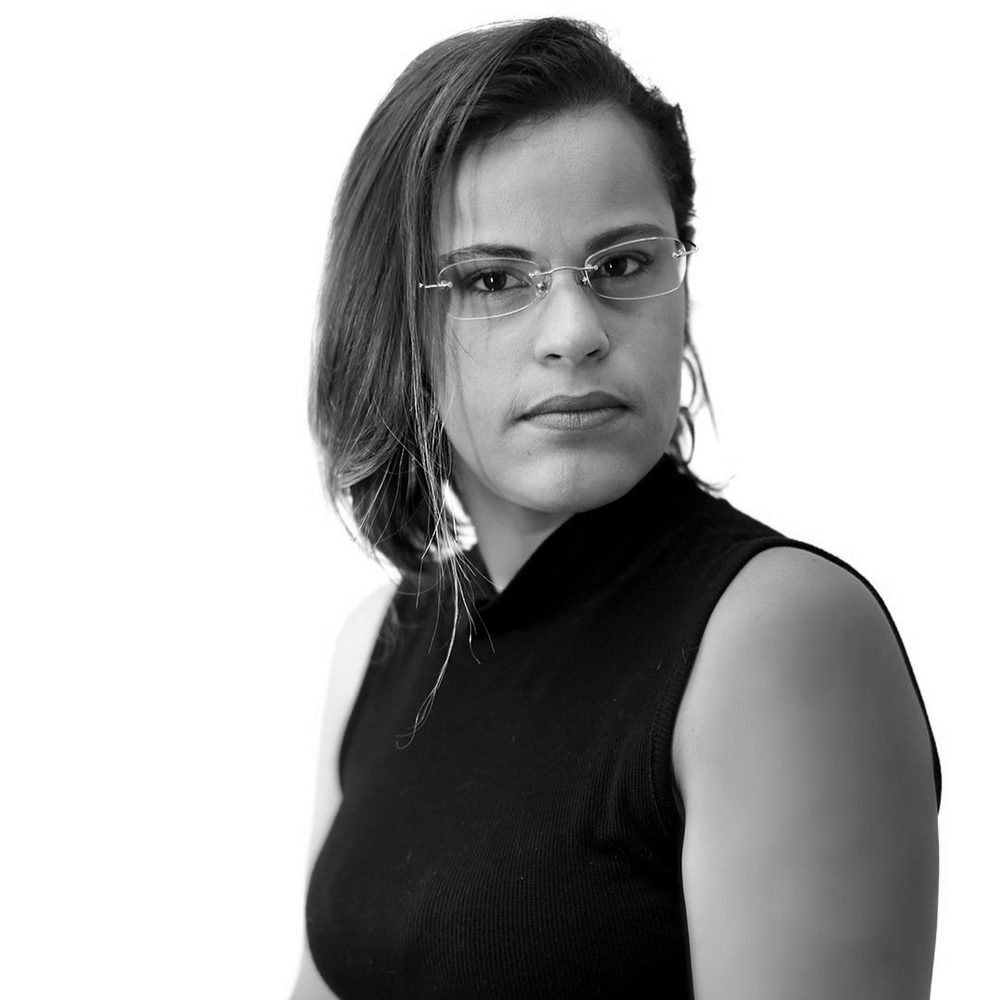
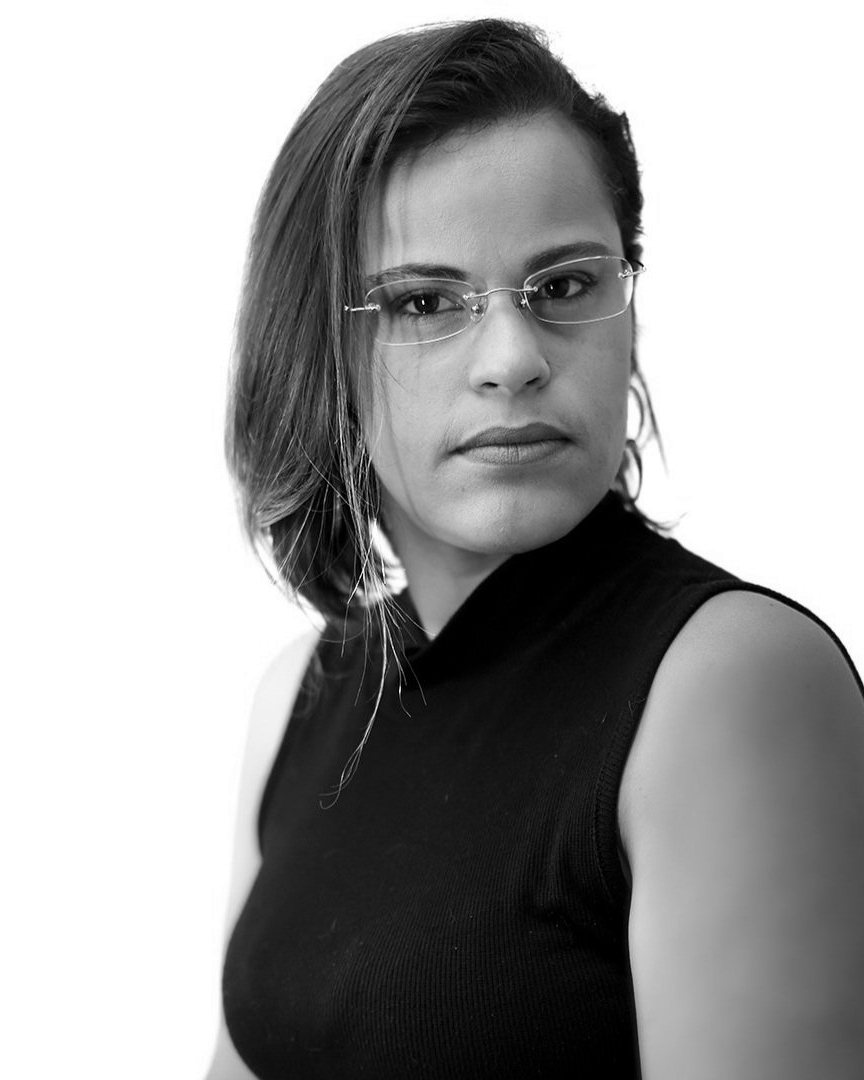
Nova foto do Germano e inclusão de Arábia Saudita e Índia
- retrato novo entra pela pasta 'Fotos Equipe/' (corte 4x5 automático com viés
  para o topo + conversão P&B); gerador/imagens.py passa a preferir essa pasta
- mercados atendidos atualizados em PT e EN: bio da equipe, página Sobre,
  bloco de estrutura, página de contato e meta description
- remove do imagens.py o bloco de marca duplicado (agora só em marca.py)

Changed region(s): [[0.2188, 0.0, 1.0, 1.0], [0.5312, 0.527, 0.5625, 0.558]]

diff --git a/docs/en/about.html b/docs/en/about.html
@@ -4,13 +4,13 @@
 <meta charset="utf-8">
 <meta name="viewport" content="width=device-width, initial-scale=1">
 <title>About Vertigo — Vertigo Color</title>
-<meta name="description" content="Today, Vertigo stands as one of the most sought-after color grading studios in Brazil — with a global focus. Operating from southern Brazil lets us offer N">
+<meta name="description" content="Today, Vertigo stands as one of the most sought-after color grading studios in Brazil — with a global focus. We serve the United States, Europe, Saudi Arab">
 <link rel="canonical" href="https://vertigocolor.com/en/about.html">
 <link rel="alternate" hreflang="pt-BR" href="https://vertigocolor.com/pt/sobre.html">
 <link rel="alternate" hreflang="en" href="https://vertigocolor.com/en/about.html">
 <link rel="alternate" hreflang="x-default" href="https://vertigocolor.com/">
 <meta property="og:title" content="About Vertigo — Vertigo Color">
-<meta property="og:description" content="Today, Vertigo stands as one of the most sought-after color grading studios in Brazil — with a global focus. Operating from southern Brazil lets us offer N">
+<meta property="og:description" content="Today, Vertigo stands as one of the most sought-after color grading studios in Brazil — with a global focus. We serve the United States, Europe, Saudi Arab">
 <meta property="og:image" content="https://vertigocolor.com/assets/img/equipe/germano-sobre.jpg">
 <meta property="og:type" content="website">
 <meta name="theme-color" content="#000000">
@@ -31,13 +31,13 @@
 <section class="secao" style="padding-top:0"><div class="miolo">
   <h1 class="display reveal" style="margin-bottom:44px">About Vertigo</h1>
   <div class="duas-colunas">
-    <div class="prosa reveal"><p>Vertigo Color was born from a singular obsession with the cinematic image. When I first set out to elevate my own productions, the endless complexities of lighting, sound and camera gear felt overwhelming — but color grading immediately clicked. Encouraged by industry mentors like Filippo Cinotti, who proved that a dedicated career in color was possible, I went all-in and invested everything I had into mastering the craft.</p><p>The turning point came when I joined forces with a business partner who brought over a decade of post-production experience — and the name Vertigo Color with him. By combining obsessive dedication with deeply rooted technical expertise, we built a post-production house entirely around the art and science of the grade.</p><p>Today, Vertigo stands as one of the most sought-after color grading studios in Brazil — with a global focus. Operating from southern Brazil lets us offer North American and European markets a massive advantage: world-class finishing at a highly competitive rate, with zero compromise on rigor.</p></div>
+    <div class="prosa reveal"><p>Vertigo Color was born from a singular obsession with the cinematic image. When I first set out to elevate my own productions, the endless complexities of lighting, sound and camera gear felt overwhelming — but color grading immediately clicked. Encouraged by industry mentors like Filippo Cinotti, who proved that a dedicated career in color was possible, I went all-in and invested everything I had into mastering the craft.</p><p>The turning point came when I joined forces with a business partner who brought over a decade of post-production experience — and the name Vertigo Color with him. By combining obsessive dedication with deeply rooted technical expertise, we built a post-production house entirely around the art and science of the grade.</p><p>Today, Vertigo stands as one of the most sought-after color grading studios in Brazil — with a global focus. We serve the United States, Europe, Saudi Arabia and India to the same standard, and operating from southern Brazil lets us offer those markets a massive advantage: world-class finishing at a highly competitive rate, with zero compromise on rigor.</p></div>
     <figure class="reveal"><img src="../assets/img/equipe/germano-sobre.jpg" alt="Germano Michelon Santos" loading="lazy"></figure>
   </div>
 </div></section>
 <section class="secao" style="padding-top:0"><div class="miolo reveal">
   <p class="rotulo">Infrastructure</p>
-  <p class="prosa" style="margin-top:18px;font-size:clamp(1.15rem,2.2vw,1.7rem);font-weight:600;max-width:900px">Based in São Marcos, southern Brazil, with live remote sessions available worldwide. And when a project calls for presence in Rio de Janeiro, we work through our partnership with O2, using their infrastructure.</p>
+  <p class="prosa" style="margin-top:18px;font-size:clamp(1.15rem,2.2vw,1.7rem);font-weight:600;max-width:900px">Based in São Marcos, southern Brazil, with live remote sessions available worldwide — today we work with clients from Brazil to the United States, Europe, Saudi Arabia and India. And when a project calls for presence in Rio de Janeiro, we work through our partnership with O2, using their infrastructure.</p>
   <p class="mudo" style="margin-top:14px">Av. Venâncio Aires, 907 — São Marcos, RS — Brasil</p>
 </div></section>
 <section class="secao clientes"><div class="miolo reveal">

diff --git a/docs/pt/sobre.html b/docs/pt/sobre.html
@@ -4,13 +4,13 @@
 <meta charset="utf-8">
 <meta name="viewport" content="width=device-width, initial-scale=1">
 <title>Sobre a Vertigo — Vertigo Color</title>
-<meta name="description" content="Hoje, a Vertigo é um dos estúdios de color grading mais procurados do Brasil — com foco global. Operar a partir do Sul do país nos permite oferecer aos mer">
+<meta name="description" content="Hoje, a Vertigo é um dos estúdios de color grading mais procurados do Brasil — com foco global. Atendemos os Estados Unidos, a Europa, a Arábia Saudita e a">
 <link rel="canonical" href="https://vertigocolor.com/pt/sobre.html">
 <link rel="alternate" hreflang="pt-BR" href="https://vertigocolor.com/pt/sobre.html">
 <link rel="alternate" hreflang="en" href="https://vertigocolor.com/en/about.html">
 <link rel="alternate" hreflang="x-default" href="https://vertigocolor.com/">
 <meta property="og:title" content="Sobre a Vertigo — Vertigo Color">
-<meta property="og:description" content="Hoje, a Vertigo é um dos estúdios de color grading mais procurados do Brasil — com foco global. Operar a partir do Sul do país nos permite oferecer aos mer">
+<meta property="og:description" content="Hoje, a Vertigo é um dos estúdios de color grading mais procurados do Brasil — com foco global. Atendemos os Estados Unidos, a Europa, a Arábia Saudita e a">
 <meta property="og:image" content="https://vertigocolor.com/assets/img/equipe/germano-sobre.jpg">
 <meta property="og:type" content="website">
 <meta name="theme-color" content="#000000">
@@ -31,13 +31,13 @@
 <section class="secao" style="padding-top:0"><div class="miolo">
   <h1 class="display reveal" style="margin-bottom:44px">Sobre a Vertigo</h1>
   <div class="duas-colunas">
-    <div class="prosa reveal"><p>A Vertigo Color nasceu de uma obsessão singular pela imagem cinematográfica. Quando comecei a produzir meus próprios vídeos, a complexidade de luz, som e equipamento parecia infinita — mas o color grading fez sentido imediatamente. Incentivado por mentores como Filippo Cinotti, que provaram que uma carreira dedicada à cor era possível, investi tudo o que tinha em dominar o ofício.</p><p>A virada veio ao unir forças com um sócio que trazia mais de uma década de pós-produção — e o nome Vertigo Color junto. Combinando dedicação obsessiva com experiência técnica profunda, construímos uma casa de pós-produção inteiramente em torno da arte e da ciência da cor.</p><p>Hoje, a Vertigo é um dos estúdios de color grading mais procurados do Brasil — com foco global. Operar a partir do Sul do país nos permite oferecer aos mercados norte-americano e europeu uma vantagem enorme: finalização de alto nível a um custo altamente competitivo, sem abrir mão de nenhum rigor.</p></div>
+    <div class="prosa reveal"><p>A Vertigo Color nasceu de uma obsessão singular pela imagem cinematográfica. Quando comecei a produzir meus próprios vídeos, a complexidade de luz, som e equipamento parecia infinita — mas o color grading fez sentido imediatamente. Incentivado por mentores como Filippo Cinotti, que provaram que uma carreira dedicada à cor era possível, investi tudo o que tinha em dominar o ofício.</p><p>A virada veio ao unir forças com um sócio que trazia mais de uma década de pós-produção — e o nome Vertigo Color junto. Combinando dedicação obsessiva com experiência técnica profunda, construímos uma casa de pós-produção inteiramente em torno da arte e da ciência da cor.</p><p>Hoje, a Vertigo é um dos estúdios de color grading mais procurados do Brasil — com foco global. Atendemos os Estados Unidos, a Europa, a Arábia Saudita e a Índia com o mesmo padrão, e operar a partir do Sul do país nos permite oferecer a esses mercados uma vantagem enorme: finalização de alto nível a um custo altamente competitivo, sem abrir mão de nenhum rigor.</p></div>
     <figure class="reveal"><img src="../assets/img/equipe/germano-sobre.jpg" alt="Germano Michelon Santos" loading="lazy"></figure>
   </div>
 </div></section>
 <section class="secao" style="padding-top:0"><div class="miolo reveal">
   <p class="rotulo">Estrutura</p>
-  <p class="prosa" style="margin-top:18px;font-size:clamp(1.15rem,2.2vw,1.7rem);font-weight:600;max-width:900px">Base em São Marcos, no Rio Grande do Sul, com sessões remotas ao vivo para qualquer lugar do mundo. E quando o projeto pede presença no Rio de Janeiro, atendemos pela parceria com a O2, usando a infraestrutura deles.</p>
+  <p class="prosa" style="margin-top:18px;font-size:clamp(1.15rem,2.2vw,1.7rem);font-weight:600;max-width:900px">Base em São Marcos, no Rio Grande do Sul, com sessões remotas ao vivo para qualquer lugar do mundo — hoje atendemos do Brasil aos Estados Unidos, Europa, Arábia Saudita e Índia. E quando o projeto pede presença no Rio de Janeiro, atendemos pela parceria com a O2, usando a infraestrutura deles.</p>
   <p class="mudo" style="margin-top:14px">Av. Venâncio Aires, 907 — São Marcos, RS — Brasil</p>
 </div></section>
 <section class="secao clientes"><div class="miolo reveal">

diff --git a/docs/pt/index.html b/docs/pt/index.html
@@ -4,13 +4,13 @@
 <meta charset="utf-8">
 <meta name="viewport" content="width=device-width, initial-scale=1">
 <title>Vertigo Color — Color grading para cinema, publicidade e música</title>
-<meta name="description" content="Estúdio brasileiro de color grading: filmes, séries, comerciais e videoclipes. Sessões remotas ao vivo para o mundo todo. Nike, Mercedes-Benz, Michelin e Natura já passaram pela nossa cor.">
+<meta name="description" content="Estúdio brasileiro de color grading: filmes, séries, comerciais e videoclipes. Sessões remotas ao vivo para Brasil, Estados Unidos, Europa, Arábia Saudita e Índia. Nike, Mercedes-Benz, Michelin e Natura já passaram pela nossa cor.">
 <link rel="canonical" href="https://vertigocolor.com/pt/index.html">
 <link rel="alternate" hreflang="pt-BR" href="https://vertigocolor.com/pt/index.html">
 <link rel="alternate" hreflang="en" href="https://vertigocolor.com/en/index.html">
 <link rel="alternate" hreflang="x-default" href="https://vertigocolor.com/">
 <meta property="og:title" content="Vertigo Color — Color grading para cinema, publicidade e música">
-<meta property="og:description" content="Estúdio brasileiro de color grading: filmes, séries, comerciais e videoclipes. Sessões remotas ao vivo para o mundo todo. Nike, Mercedes-Benz, Michelin e Natura já passaram pela nossa cor.">
+<meta property="og:description" content="Estúdio brasileiro de color grading: filmes, séries, comerciais e videoclipes. Sessões remotas ao vivo para Brasil, Estados Unidos, Europa, Arábia Saudita e Índia. Nike, Mercedes-Benz, Michelin e Natura já passaram pela nossa cor.">
 <meta property="og:image" content="https://vertigocolor.com/assets/img/herois/xama.jpg">
 <meta property="og:type" content="website">
 <meta name="theme-color" content="#000000">
@@ -103,7 +103,7 @@
 
 <section class="secao" style="padding-top:0"><div class="miolo reveal">
   <p class="rotulo">Estrutura</p>
-  <p class="prosa" style="margin-top:18px;font-size:clamp(1.15rem,2.2vw,1.7rem);font-weight:600;max-width:900px">Base em São Marcos, no Rio Grande do Sul, com sessões remotas ao vivo para qualquer lugar do mundo. E quando o projeto pede presença no Rio de Janeiro, atendemos pela parceria com a O2, usando a infraestrutura deles.</p>
+  <p class="prosa" style="margin-top:18px;font-size:clamp(1.15rem,2.2vw,1.7rem);font-weight:600;max-width:900px">Base em São Marcos, no Rio Grande do Sul, com sessões remotas ao vivo para qualquer lugar do mundo — hoje atendemos do Brasil aos Estados Unidos, Europa, Arábia Saudita e Índia. E quando o projeto pede presença no Rio de Janeiro, atendemos pela parceria com a O2, usando a infraestrutura deles.</p>
 </div></section>
 
 <section class="secao faixa-branca"><div class="miolo">

diff --git a/docs/en/index.html b/docs/en/index.html
@@ -4,13 +4,13 @@
 <meta charset="utf-8">
 <meta name="viewport" content="width=device-width, initial-scale=1">
 <title>Vertigo Color — Color grading for film, advertising and music</title>
-<meta name="description" content="Brazilian color grading studio: films, series, commercials and music videos. Live remote sessions worldwide. Nike, Mercedes-Benz, Michelin and Natura have been through our color.">
+<meta name="description" content="Brazilian color grading studio: films, series, commercials and music videos. Live remote sessions for Brazil, the United States, Europe, Saudi Arabia and India. Nike, Mercedes-Benz, Michelin and Natura have been through our color.">
 <link rel="canonical" href="https://vertigocolor.com/en/index.html">
 <link rel="alternate" hreflang="pt-BR" href="https://vertigocolor.com/pt/index.html">
 <link rel="alternate" hreflang="en" href="https://vertigocolor.com/en/index.html">
 <link rel="alternate" hreflang="x-default" href="https://vertigocolor.com/">
 <meta property="og:title" content="Vertigo Color — Color grading for film, advertising and music">
-<meta property="og:description" content="Brazilian color grading studio: films, series, commercials and music videos. Live remote sessions worldwide. Nike, Mercedes-Benz, Michelin and Natura have been through our color.">
+<meta property="og:description" content="Brazilian color grading studio: films, series, commercials and music videos. Live remote sessions for Brazil, the United States, Europe, Saudi Arabia and India. Nike, Mercedes-Benz, Michelin and Natura have been through our color.">
 <meta property="og:image" content="https://vertigocolor.com/assets/img/herois/deadmen.jpg">
 <meta property="og:type" content="website">
 <meta name="theme-color" content="#000000">
@@ -103,7 +103,7 @@
 
 <section class="secao" style="padding-top:0"><div class="miolo reveal">
   <p class="rotulo">Infrastructure</p>
-  <p class="prosa" style="margin-top:18px;font-size:clamp(1.15rem,2.2vw,1.7rem);font-weight:600;max-width:900px">Based in São Marcos, southern Brazil, with live remote sessions available worldwide. And when a project calls for presence in Rio de Janeiro, we work through our partnership with O2, using their infrastructure.</p>
+  <p class="prosa" style="margin-top:18px;font-size:clamp(1.15rem,2.2vw,1.7rem);font-weight:600;max-width:900px">Based in São Marcos, southern Brazil, with live remote sessions available worldwide — today we work with clients from Brazil to the United States, Europe, Saudi Arabia and India. And when a project calls for presence in Rio de Janeiro, we work through our partnership with O2, using their infrastructure.</p>
 </div></section>
 
 <section class="secao faixa-branca"><div class="miolo">

diff --git a/docs/en/contact.html b/docs/en/contact.html
@@ -4,13 +4,13 @@
 <meta charset="utf-8">
 <meta name="viewport" content="width=device-width, initial-scale=1">
 <title>Contact — Vertigo Color</title>
-<meta name="description" content="We work remotely, with live sessions, for clients anywhere in the world.">
+<meta name="description" content="We work remotely, with live sessions, for clients anywhere in the world — from Brazil to the United States, Europe, Saudi Arabia and India.">
 <link rel="canonical" href="https://vertigocolor.com/en/contact.html">
 <link rel="alternate" hreflang="pt-BR" href="https://vertigocolor.com/pt/contato.html">
 <link rel="alternate" hreflang="en" href="https://vertigocolor.com/en/contact.html">
 <link rel="alternate" hreflang="x-default" href="https://vertigocolor.com/">
 <meta property="og:title" content="Contact — Vertigo Color">
-<meta property="og:description" content="We work remotely, with live sessions, for clients anywhere in the world.">
+<meta property="og:description" content="We work remotely, with live sessions, for clients anywhere in the world — from Brazil to the United States, Europe, Saudi Arabia and India.">
 <meta property="og:image" content="https://vertigocolor.com/assets/img/herois/deadmen.jpg">
 <meta property="og:type" content="website">
 <meta name="theme-color" content="#000000">
@@ -30,7 +30,7 @@
 <main class="projeto-topo">
 <section class="secao contato-grande" style="padding-top:0"><div class="miolo">
   <h1 class="display reveal" style="margin-bottom:20px">Contact</h1>
-  <p class="prosa reveal mudo" style="margin-bottom:44px">We work remotely, with live sessions, for clients anywhere in the world.</p>
+  <p class="prosa reveal mudo" style="margin-bottom:44px">We work remotely, with live sessions, for clients anywhere in the world — from Brazil to the United States, Europe, Saudi Arabia and India.</p>
   <p class="reveal"><a class="email" href="mailto:germanomichelonsantos@gmail.com">germanomichelonsantos@gmail.com</a></p>
   <div class="contato-lista">
     <div class="item reveal"><span class="rotulo">WhatsApp</span>

diff --git a/docs/pt/contato.html b/docs/pt/contato.html
@@ -4,13 +4,13 @@
 <meta charset="utf-8">
 <meta name="viewport" content="width=device-width, initial-scale=1">
 <title>Contato — Vertigo Color</title>
-<meta name="description" content="Atendemos remoto, com sessão ao vivo, para qualquer lugar do mundo.">
+<meta name="description" content="Atendemos remoto, com sessão ao vivo, para qualquer lugar do mundo — do Brasil aos Estados Unidos, Europa, Arábia Saudita e Índia.">
 <link rel="canonical" href="https://vertigocolor.com/pt/contato.html">
 <link rel="alternate" hreflang="pt-BR" href="https://vertigocolor.com/pt/contato.html">
 <link rel="alternate" hreflang="en" href="https://vertigocolor.com/en/contact.html">
 <link rel="alternate" hreflang="x-default" href="https://vertigocolor.com/">
 <meta property="og:title" content="Contato — Vertigo Color">
-<meta property="og:description" content="Atendemos remoto, com sessão ao vivo, para qualquer lugar do mundo.">
+<meta property="og:description" content="Atendemos remoto, com sessão ao vivo, para qualquer lugar do mundo — do Brasil aos Estados Unidos, Europa, Arábia Saudita e Índia.">
 <meta property="og:image" content="https://vertigocolor.com/assets/img/herois/xama.jpg">
 <meta property="og:type" content="website">
 <meta name="theme-color" content="#000000">
@@ -30,7 +30,7 @@
 <main class="projeto-topo">
 <section class="secao contato-grande" style="padding-top:0"><div class="miolo">
   <h1 class="display reveal" style="margin-bottom:20px">Contato</h1>
-  <p class="prosa reveal mudo" style="margin-bottom:44px">Atendemos remoto, com sessão ao vivo, para qualquer lugar do mundo.</p>
+  <p class="prosa reveal mudo" style="margin-bottom:44px">Atendemos remoto, com sessão ao vivo, para qualquer lugar do mundo — do Brasil aos Estados Unidos, Europa, Arábia Saudita e Índia.</p>
   <p class="reveal"><a class="email" href="mailto:germanomichelonsantos@gmail.com">germanomichelonsantos@gmail.com</a></p>
   <div class="contato-lista">
     <div class="item reveal"><span class="rotulo">WhatsApp</span>

diff --git a/docs/pt/equipe.html b/docs/pt/equipe.html
@@ -35,7 +35,7 @@
   <figure><img src="../assets/img/equipe/germano.jpg" alt="Germano Michelon Santos" loading="lazy"></figure>
   <h3>Germano Michelon Santos</h3>
   <p class="cargo">Colorista sênior e fundador</p>
-  <p>Fundador da Vertigo Color, coloriu projetos para marcas como Nike, Mercedes-Benz, Michelin e Natura, além de videoclipes com milhões de visualizações. Atende do estúdio em São Marcos (RS) clientes do Brasil, dos Estados Unidos e da Europa.</p>
+  <p>Fundador da Vertigo Color, coloriu projetos para marcas como Nike, Mercedes-Benz, Michelin e Natura, além de videoclipes com milhões de visualizações. Atende do estúdio em São Marcos (RS) clientes do Brasil, dos Estados Unidos, da Europa, da Arábia Saudita e da Índia.</p>
   <p class="proj-links"><span class="rotulo">Projetos</span><br><a href="../pt/projetos/dead-men-walk-alone.html">Dead Men Walk Alone</a> · <a href="../pt/projetos/uceff.html">UCEFF</a> · <a href="../pt/projetos/noug.html">Noug</a> · <a href="../pt/projetos/taro-blood-milk-and-sky.html">Taro / Blood, Milk and Sky</a></p>
 </article><article class="pessoa reveal">
   <figure><img src="../assets/img/equipe/rafael.jpg" alt="Rafael de Deus" loading="lazy"></figure>

diff --git a/docs/en/team.html b/docs/en/team.html
@@ -35,7 +35,7 @@
   <figure><img src="../assets/img/equipe/germano.jpg" alt="Germano Michelon Santos" loading="lazy"></figure>
   <h3>Germano Michelon Santos</h3>
   <p class="cargo">Senior Colorist & Founder</p>
-  <p>Founder of Vertigo Color, Germano has graded work for brands like Nike, Mercedes-Benz, Michelin and Natura, plus music videos with millions of views. From the studio in southern Brazil he serves clients across Brazil, the US and Europe.</p>
+  <p>Founder of Vertigo Color, Germano has graded work for brands like Nike, Mercedes-Benz, Michelin and Natura, plus music videos with millions of views. From the studio in southern Brazil he serves clients across Brazil, the United States, Europe, Saudi Arabia and India.</p>
   <p class="proj-links"><span class="rotulo">Projects</span><br><a href="../en/projects/dead-men-walk-alone.html">Dead Men Walk Alone</a> · <a href="../en/projects/uceff.html">UCEFF</a> · <a href="../en/projects/noug.html">Noug</a> · <a href="../en/projects/taro-blood-milk-and-sky.html">Taro / Blood, Milk and Sky</a></p>
 </article><article class="pessoa reveal">
   <figure><img src="../assets/img/equipe/rafael.jpg" alt="Rafael de Deus" loading="lazy"></figure>

diff --git a/gerador/dados.py b/gerador/dados.py
@@ -23,8 +23,8 @@ EQUIPE = [
         "cargo": {"pt": "Colorista sênior e fundador", "en": "Senior Colorist & Founder"},
         "foto": "equipe/germano.jpg",
         "bio": {
-            "pt": "Fundador da Vertigo Color, coloriu projetos para marcas como Nike, Mercedes-Benz, Michelin e Natura, além de videoclipes com milhões de visualizações. Atende do estúdio em São Marcos (RS) clientes do Brasil, dos Estados Unidos e da Europa.",
-            "en": "Founder of Vertigo Color, Germano has graded work for brands like Nike, Mercedes-Benz, Michelin and Natura, plus music videos with millions of views. From the studio in southern Brazil he serves clients across Brazil, the US and Europe.",
+            "pt": "Fundador da Vertigo Color, coloriu projetos para marcas como Nike, Mercedes-Benz, Michelin e Natura, além de videoclipes com milhões de visualizações. Atende do estúdio em São Marcos (RS) clientes do Brasil, dos Estados Unidos, da Europa, da Arábia Saudita e da Índia.",
+            "en": "Founder of Vertigo Color, Germano has graded work for brands like Nike, Mercedes-Benz, Michelin and Natura, plus music videos with millions of views. From the studio in southern Brazil he serves clients across Brazil, the United States, Europe, Saudi Arabia and India.",
         },
     },
     {
@@ -304,18 +304,18 @@ SOBRE = {
     "pt": [
         "A Vertigo Color nasceu de uma obsessão singular pela imagem cinematográfica. Quando comecei a produzir meus próprios vídeos, a complexidade de luz, som e equipamento parecia infinita — mas o color grading fez sentido imediatamente. Incentivado por mentores como Filippo Cinotti, que provaram que uma carreira dedicada à cor era possível, investi tudo o que tinha em dominar o ofício.",
         "A virada veio ao unir forças com um sócio que trazia mais de uma década de pós-produção — e o nome Vertigo Color junto. Combinando dedicação obsessiva com experiência técnica profunda, construímos uma casa de pós-produção inteiramente em torno da arte e da ciência da cor.",
-        "Hoje, a Vertigo é um dos estúdios de color grading mais procurados do Brasil — com foco global. Operar a partir do Sul do país nos permite oferecer aos mercados norte-americano e europeu uma vantagem enorme: finalização de alto nível a um custo altamente competitivo, sem abrir mão de nenhum rigor.",
+        "Hoje, a Vertigo é um dos estúdios de color grading mais procurados do Brasil — com foco global. Atendemos os Estados Unidos, a Europa, a Arábia Saudita e a Índia com o mesmo padrão, e operar a partir do Sul do país nos permite oferecer a esses mercados uma vantagem enorme: finalização de alto nível a um custo altamente competitivo, sem abrir mão de nenhum rigor.",
     ],
     "en": [
         "Vertigo Color was born from a singular obsession with the cinematic image. When I first set out to elevate my own productions, the endless complexities of lighting, sound and camera gear felt overwhelming — but color grading immediately clicked. Encouraged by industry mentors like Filippo Cinotti, who proved that a dedicated career in color was possible, I went all-in and invested everything I had into mastering the craft.",
         "The turning point came when I joined forces with a business partner who brought over a decade of post-production experience — and the name Vertigo Color with him. By combining obsessive dedication with deeply rooted technical expertise, we built a post-production house entirely around the art and science of the grade.",
-        "Today, Vertigo stands as one of the most sought-after color grading studios in Brazil — with a global focus. Operating from southern Brazil lets us offer North American and European markets a massive advantage: world-class finishing at a highly competitive rate, with zero compromise on rigor.",
+        "Today, Vertigo stands as one of the most sought-after color grading studios in Brazil — with a global focus. We serve the United States, Europe, Saudi Arabia and India to the same standard, and operating from southern Brazil lets us offer those markets a massive advantage: world-class finishing at a highly competitive rate, with zero compromise on rigor.",
     ],
 }
 
 O2_TXT = {
-    "pt": "Base em São Marcos, no Rio Grande do Sul, com sessões remotas ao vivo para qualquer lugar do mundo. E quando o projeto pede presença no Rio de Janeiro, atendemos pela parceria com a O2, usando a infraestrutura deles.",
-    "en": "Based in São Marcos, southern Brazil, with live remote sessions available worldwide. And when a project calls for presence in Rio de Janeiro, we work through our partnership with O2, using their infrastructure.",
+    "pt": "Base em São Marcos, no Rio Grande do Sul, com sessões remotas ao vivo para qualquer lugar do mundo — hoje atendemos do Brasil aos Estados Unidos, Europa, Arábia Saudita e Índia. E quando o projeto pede presença no Rio de Janeiro, atendemos pela parceria com a O2, usando a infraestrutura deles.",
+    "en": "Based in São Marcos, southern Brazil, with live remote sessions available worldwide — today we work with clients from Brazil to the United States, Europe, Saudi Arabia and India. And when a project calls for presence in Rio de Janeiro, we work through our partnership with O2, using their infrastructure.",
 }
 
 REUNIAO = {

diff --git a/gerador/imagens.py b/gerador/imagens.py
@@ -68,24 +68,8 @@ def logo_branco(prefixo, rel, largura=560):
     return out.size
 
 
-# ---------- marca ----------
-os.makedirs(os.path.join(DEST, "marca"), exist_ok=True)
-logo = Image.open(os.path.join(RAIZ, "marca", "logo-vertigo-branco.png")).convert("RGBA")
-logo.thumbnail((1400, 1400), Image.LANCZOS)
-logo.save(os.path.join(DEST, "marca", "logo-branco.png"), optimize=True)
-
-# símbolo (homem caindo) = bbox do alpha na metade superior
-full = Image.open(os.path.join(RAIZ, "marca", "logo-vertigo-branco.png")).convert("RGBA")
-topo = full.crop((0, 0, full.width, int(full.height * 0.60)))
-bb = topo.getchannel("A").point(lambda p: 255 if p > 20 else 0).getbbox()
-simbolo = topo.crop(bb)
-simbolo.thumbnail((700, 700), Image.LANCZOS)
-simbolo.save(os.path.join(DEST, "marca", "simbolo-branco.png"), optimize=True)
-
-import shutil
-shutil.copy(os.path.join(RAIZ, "marca", "favicon.ico"), os.path.join(RAIZ, "docs", "favicon.ico"))
-av = Image.open(os.path.join(RAIZ, "marca", "avatar-vg.png")).convert("RGB")
-av.resize((180, 180), Image.LANCZOS).save(os.path.join(RAIZ, "docs", "apple-touch-icon.png"))
+# Os assets de marca (logo, símbolo, favicon) são gerados por gerador/marca.py,
+# a partir dos arquivos oficiais da pasta "Marca Vertigo/".
 
 # ---------- heróis ----------
 processa(78, "herois/xama.jpg", 2400, 82)            # Xamã andaime (hero PT)
@@ -122,11 +106,66 @@ for nome, pref in LOGOS.items():
     print(nome, logo_branco(pref, f"logos/{nome}.png"))
 
 # ---------- equipe ----------
-processa(96, "equipe/germano.jpg", 1000, 82, pb=True)
-processa(54, "equipe/rafael.jpg", 1000, 82, pb=True)
-processa(212, "equipe/deisy.jpg", 1000, 82, pb=True)
-processa(89, "equipe/jana.jpg", 1000, 82, pb=True)
-processa(191, "equipe/germano-sobre.jpg", 1600, 82, pb=True)
+# Fotos novas entram pela pasta "Fotos Equipe/" (ver LEIA-ME lá dentro);
+# se não houver arquivo lá, usa a foto resgatada do site antigo.
+FOTOS_NOVAS = os.path.join(RAIZ, "Fotos Equipe")
+EXTENSOES = (".jpg", ".jpeg", ".png", ".heic", ".HEIC", ".JPG", ".JPEG", ".PNG")
+
+
+def foto_nova(nome):
+    """Caminho da foto entregue pelo Gê, se existir."""
+    for ext in EXTENSOES:
+        caminho = os.path.join(FOTOS_NOVAS, nome + ext)
+        if os.path.exists(caminho):
+            return caminho
+    return None
+
+
+def corta_retrato(im, proporcao=4 / 5, viés_topo=0.38):
+    """Corta para a proporção do site. Em fotos verticais mantém a parte de
+    cima (onde está o rosto) em vez de cortar pelo centro geométrico."""
+    alvo = proporcao
+    atual = im.width / im.height
+    if abs(atual - alvo) < 0.01:
+        return im
+    if atual > alvo:                      # larga demais: corta as laterais
+        larg = round(im.height * alvo)
+        esq = (im.width - larg) // 2
+        return im.crop((esq, 0, esq + larg, im.height))
+    alt = round(im.width / alvo)          # alta demais: corta em cima/embaixo
+    topo = round((im.height - alt) * viés_topo)
+    return im.crop((0, topo, im.width, topo + alt))
+
+
+def retrato(nome, prefixo_resgate, largura=1000):
+    """Gera o retrato P&B da equipe, preferindo a foto nova."""
+    novo = foto_nova(nome)
+    if novo:
+        im = Image.open(novo)
+        origem = f"Fotos Equipe/{os.path.basename(novo)}"
+    else:
+        im = Image.open(acha(prefixo_resgate))
+        origem = "resgate do site antigo"
+    im = ImageOps.exif_transpose(im)
+    im = corta_retrato(im)
+    tam = salva_jpg(im, os.path.join(DEST, f"equipe/{nome}.jpg"), largura, 84, pb=True)
+    print(f"  equipe/{nome}.jpg: {tam[0]}x{tam[1]}  ({origem})")
+
+
+print("Retratos da equipe:")
+retrato("germano", 96)
+retrato("rafael", 54)
+retrato("deisy", 212)
+retrato("jana", 89)
+
+# foto grande da página Sobre (proporção 3x4, não é retrato fechado)
+sobre_novo = foto_nova("germano-sobre")
+if sobre_novo:
+    im = ImageOps.exif_transpose(Image.open(sobre_novo))
+    salva_jpg(im, os.path.join(DEST, "equipe/germano-sobre.jpg"), 1600, 82, pb=True)
+    print("  equipe/germano-sobre.jpg (Fotos Equipe/)")
+else:
+    processa(191, "equipe/germano-sobre.jpg", 1600, 82, pb=True)
 
 # folha de verificação dos logos sobre preto
 sheet = Image.new("RGB", (4 * 300, 2 * 160), (0, 0, 0))

diff --git a/gerador/build.py b/gerador/build.py
@@ -20,7 +20,7 @@ UI = {
                 ("sobre.html", "Sobre"), ("contato.html", "Contato")],
         "dir_proj": "projetos",
         "titulo_site": "Vertigo Color — Color grading para cinema, publicidade e música",
-        "desc_site": "Estúdio brasileiro de color grading: filmes, séries, comerciais e videoclipes. Sessões remotas ao vivo para o mundo todo. Nike, Mercedes-Benz, Michelin e Natura já passaram pela nossa cor.",
+        "desc_site": "Estúdio brasileiro de color grading: filmes, séries, comerciais e videoclipes. Sessões remotas ao vivo para Brasil, Estados Unidos, Europa, Arábia Saudita e Índia. Nike, Mercedes-Benz, Michelin e Natura já passaram pela nossa cor.",
         "hero_h1": "Somos<br>cor.",
         "hero_sub": "Estúdio de color grading para cinema, publicidade e música — do Brasil para o mundo.",
         "hero_img": "herois/xama.jpg",
@@ -36,7 +36,7 @@ UI = {
         "projetos_de": "Projetos",
         "sobre_h1": "Sobre a Vertigo",
         "contato_h1": "Contato", "whatsapp": "WhatsApp", "endereco": "Endereço", "redes": "Redes",
-        "contato_sub": "Atendemos remoto, com sessão ao vivo, para qualquer lugar do mundo.",
+        "contato_sub": "Atendemos remoto, com sessão ao vivo, para qualquer lugar do mundo — do Brasil aos Estados Unidos, Europa, Arábia Saudita e Índia.",
         "creditos": "Créditos", "stills": "Stills", "anterior": "Anterior", "proximo": "Próximo",
         "voltar": "← Voltar ao portfólio", "color_por": "Color por",
         "direitos": "Todos os direitos reservados.",
@@ -50,7 +50,7 @@ UI = {
                 ("about.html", "About"), ("contact.html", "Contact")],
         "dir_proj": "projects",
         "titulo_site": "Vertigo Color — Color grading for film, advertising and music",
-        "desc_site": "Brazilian color grading studio: films, series, commercials and music videos. Live remote sessions worldwide. Nike, Mercedes-Benz, Michelin and Natura have been through our color.",
+        "desc_site": "Brazilian color grading studio: films, series, commercials and music videos. Live remote sessions for Brazil, the United States, Europe, Saudi Arabia and India. Nike, Mercedes-Benz, Michelin and Natura have been through our color.",
         "hero_h1": "We are<br>color.",
         "hero_sub": "A color grading studio for film, advertising and music — from Brazil to the world.",
         "hero_img": "herois/deadmen.jpg",
@@ -66,7 +66,7 @@ UI = {
         "projetos_de": "Projects",
         "sobre_h1": "About Vertigo",
         "contato_h1": "Contact", "whatsapp": "WhatsApp", "endereco": "Address", "redes": "Social",
-        "contato_sub": "We work remotely, with live sessions, for clients anywhere in the world.",
+        "contato_sub": "We work remotely, with live sessions, for clients anywhere in the world — from Brazil to the United States, Europe, Saudi Arabia and India.",
         "creditos": "Credits", "stills": "Stills", "anterior": "Previous", "proximo": "Next",
         "voltar": "← Back to the portfolio", "color_por": "Color by",
         "direitos": "All rights reserved.",
